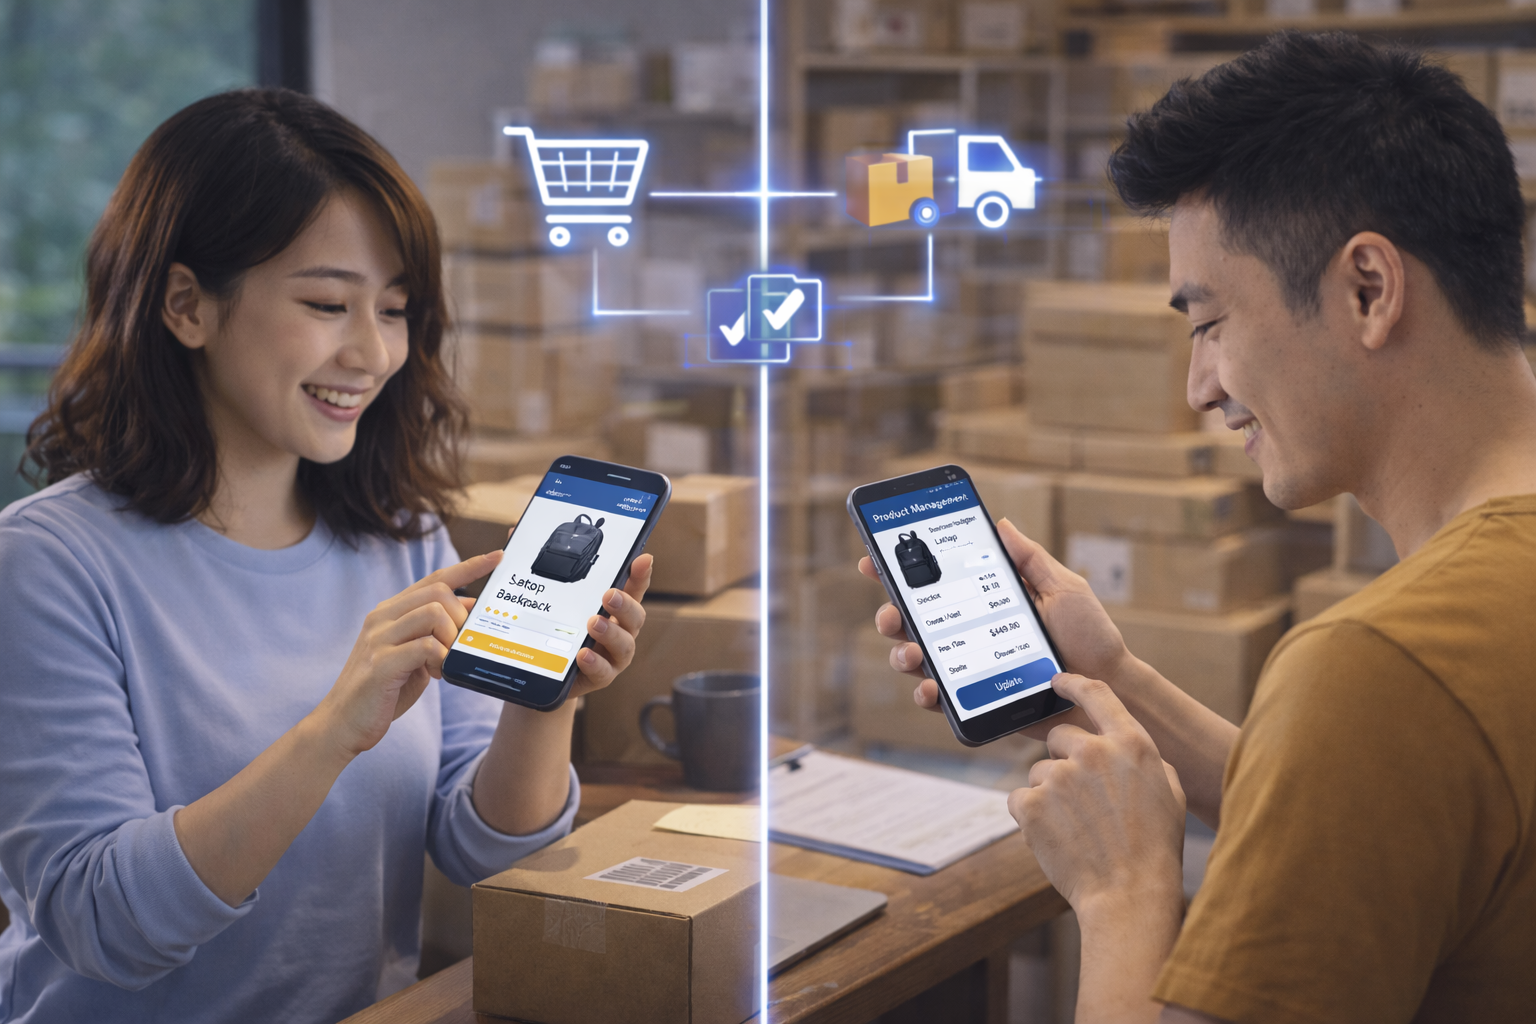
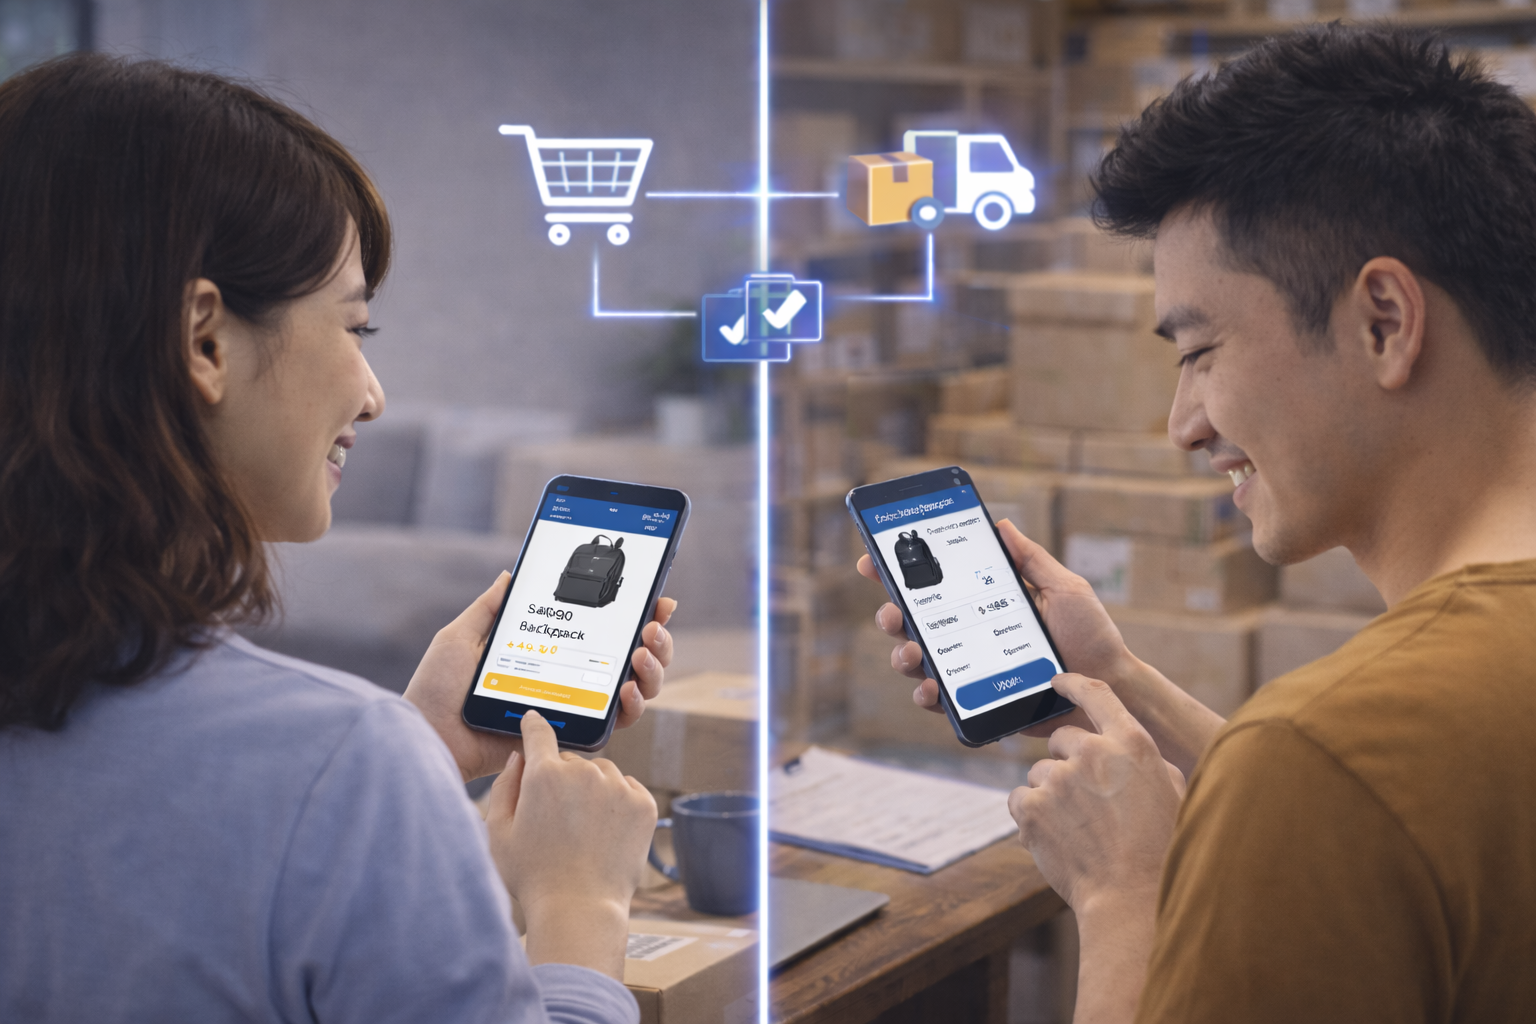
update detail

diff --git a/i18n/translations.ts b/i18n/translations.ts
@@ -29,7 +29,7 @@ const translations = {
       openChat: 'Open Chat to Send Message',
     },
     resume: {
-      summary: 'Full Stack Developer with nearly 2 years of hands-on experience building web and mobile applications using Next.js, Node.js, and React Native. Experienced in developing end-to-end solutions that improve operational efficiency and streamline workflows. Strong in translating business requirements into scalable, high-performance applications with clean and maintainable architecture.',
+      summary: 'I am a Full Stack Developer with nearly 2 years of experience in developing web and mobile applications using Next.js, Node.js, and React Native. I have strong skills in requirement analysis and system design, including databases, APIs, and UI, with a focus on simplicity, usability, and performance. I am eager to learn new technologies and continuously improve myself to deliver solutions that effectively meet business needs.',
       sections: {
         skills: 'Skills',
         experience: 'Work Experience',
@@ -196,7 +196,7 @@ const translations = {
       openChat: 'เปิดแชทเพื่อส่งข้อความ',
     },
     resume: {
-      summary: ' Full Stack Developer ที่มีประสบการณ์เกือบ 2 ปี ในการพัฒนา Web และ Mobile Application โดยใช้ Next.js, Node.js และ React Native มีประสบการณ์ในการพัฒนาโซลูชันแบบ end-to-end เพื่อเพิ่มประสิทธิภาพการทำงาน ลดขั้นตอนที่ซ้ำซ้อน และปรับปรุง workflow มีความสามารถในการแปลงความต้องการทางธุรกิจให้เป็นระบบที่สามารถขยายตัวได้ มีประสิทธิภาพสูง และมีโครงสร้างโค้ดที่สะอาด ดูแลรักษาง่าย',
+      summary: 'ผมเป็น Full Stack Developer ที่มีประสบการณ์เกือบ 2 ปี ในการพัฒนา Web และ Mobile Application ด้วย Next.js, Node.js และ React Native มีทักษะในการวิเคราะห์ความต้องการ ออกแบบระบบทั้ง Database, API และ UI โดยเน้นความเรียบง่าย ใช้งานสะดวก และมีประสิทธิภาพ พร้อมเรียนรู้สิ่งใหม่และพัฒนาตนเองอยู่เสมอ เพื่อสร้างผลงานที่ตอบโจทย์ธุรกิจได้จริง',
       sections: {
         skills: 'ทักษะ',
         experience: 'ประสบการณ์ทำงาน',

diff --git a/public/html/resume_phoomtanrt_en.html b/public/html/resume_phoomtanrt_en.html
@@ -4,8 +4,8 @@
 <meta charset="UTF-8">
 <link href="https://fonts.googleapis.com/css2?family=Inter:wght@400;500;600;700&display=swap" rel="stylesheet">
 <style>
-  *{margin:0;padding:0;box-sizing:border-box;-webkit-font-smoothing:antialiased;-moz-osx-font-smoothing:grayscale;font-synthesis:none}
-  .hsummary{font-variant-ligatures:none;text-rendering:geometricPrecision}
+  *{margin:0;padding:0;box-sizing:border-box;-webkit-font-smoothing:antialiased;-moz-osx-font-smoothing:grayscale}
+  .hsummary{font-variant-ligatures:none}
   body{font-family:'Inter','Arial',sans-serif;background:#f1f5f9;display:flex;flex-direction:column;align-items:center;padding:24px;gap:16px}
   .print-btn{padding:10px 28px;background:#4f46e5;color:#fff;border:none;border-radius:8px;cursor:pointer;font-size:14px;font-weight:600;letter-spacing:.3px}
   .print-btn:hover{background:#4338ca}
@@ -91,9 +91,7 @@
       <div class="hname">Phoomtanet Intayung</div>
       <div class="htitle">Full Stack Developer</div>
         <p class="hsummary">
-        Full Stack Developer with nearly 2 years of hands-on experience building web and mobile applications using Next.js, Node.js, and React Native.
-        Experienced in developing end-to-end solutions that improve operational efficiency and streamline workflows.
-        Strong in translating business requirements into scalable, high-performance applications with clean and maintainable architecture.
+       I am a Full Stack Developer with nearly 2 years of experience in developing web and mobile applications using Next.js, Node.js, and React Native. I have strong skills in requirement analysis and system design, including databases, APIs, and UI, with a focus on simplicity, usability, and performance. I am eager to learn new technologies and continuously improve myself to deliver solutions that effectively meet business needs.
         </p>
     </div>
     <img class="hphoto" src="../images/my-profile2.png" alt="Phoomtanet Intayung">

diff --git a/components/Portfolio.tsx b/components/Portfolio.tsx
@@ -27,6 +27,7 @@ import {
   Zap,
   Layers,
 } from 'lucide-react';
+import { h3 } from 'framer-motion/client';
 
 const PDF_PATH = '/file/transcrip_phoomtanet_intayung.pdf';
 const EN_RESUME_PATH = '/file/resume_phoomtanet_intayung_eng.pdf';
@@ -472,14 +473,6 @@ const Portfolio = () => {
                     <div className="text-gray-400 text-sm mb-4">
                       {project.duration}
                     </div>
-                    {/* <div className="space-y-2 mb-4 flex-1">
-                      {project.bullets.map((bullet, i) => (
-                        <div key={i} className="flex items-start gap-2 text-sm text-gray-300">
-                          <span className="w-1.5 h-1.5 bg-blue-400 rounded-full mt-2 flex-shrink-0" />
-                          <span>{bullet}</span>
-                        </div>
-                      ))}
-                    </div> */}
                   </div>
                 </div>
               </motion.div>
